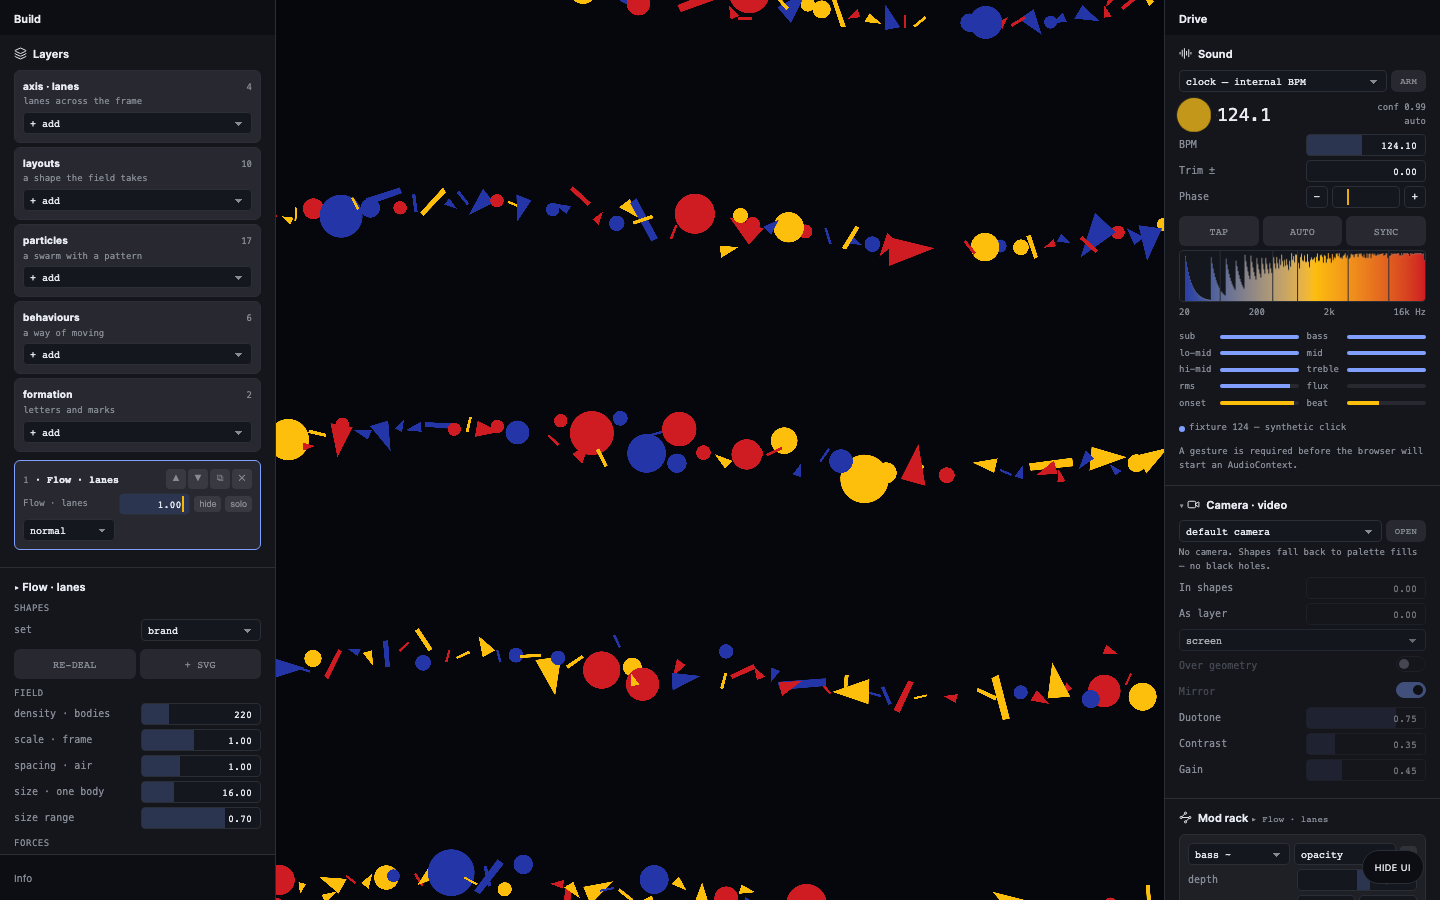
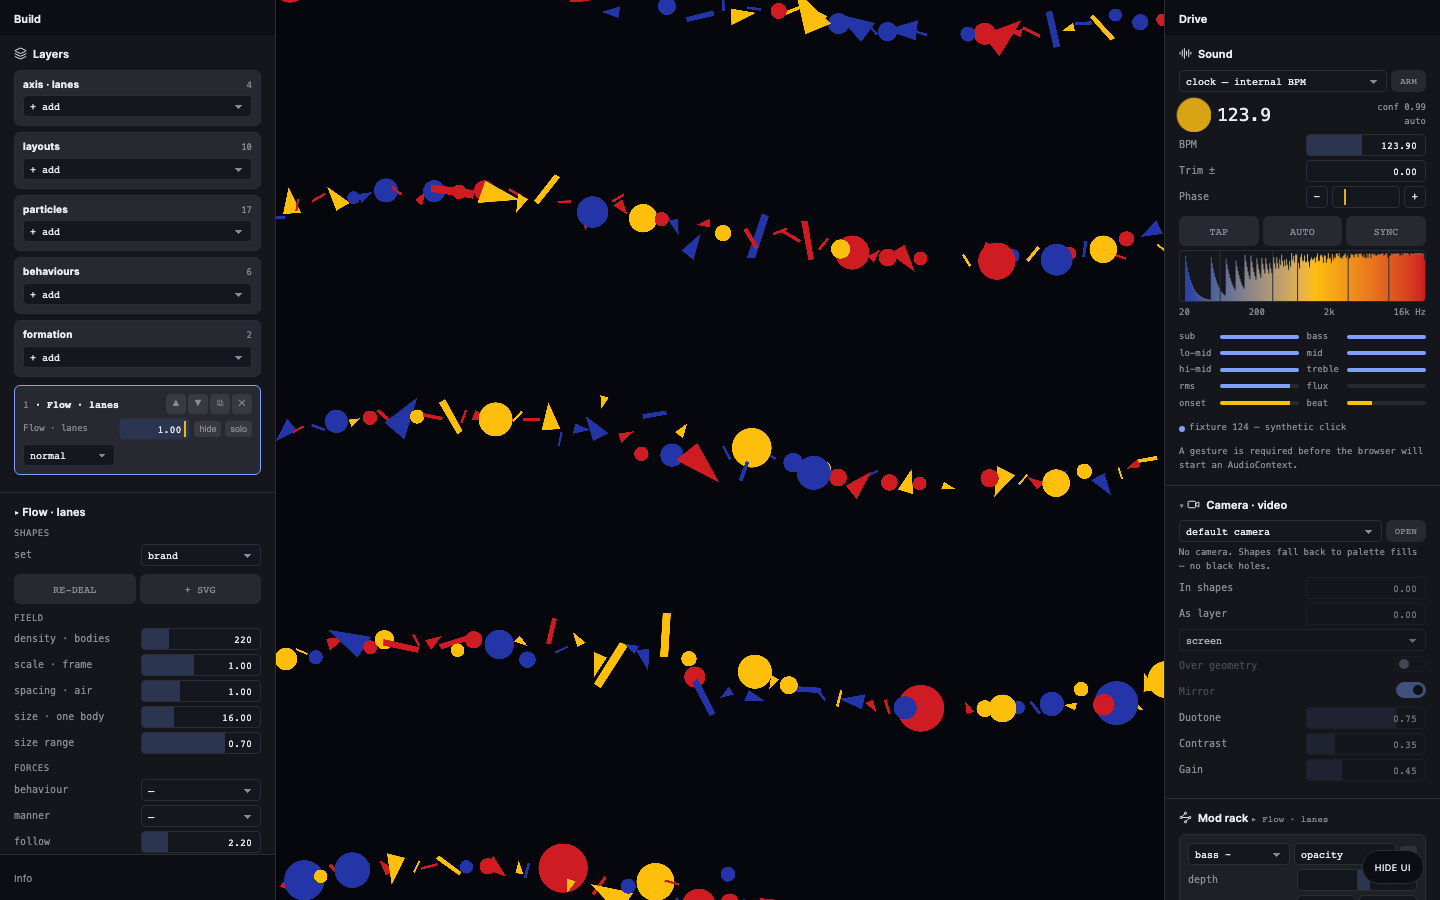
Слой рождается полем: 420 тел вместо 220

diff --git a/index.html b/index.html
@@ -2293,7 +2293,10 @@ function makeLayer(prog,variant){
   Object.assign(params, P.seed||{});
   /* a preset may also declare the crowd it was designed for */
   if(P.seed && P.seed.count) { /* handled by makeLayer's caller via L.count */ }
-  const seedCount=(P.seed&&P.seed.count)||220;
+  /* Rob, 2026-07-19: «если у нас есть диапазон до 6000 частиц, то количество лейеров на
+     каждый лейер можем давать предположим по 400, по 600». A layer arrives already a
+     field rather than a handful — 220 read as a sketch of one. */
+  const seedCount=(P.seed&&P.seed.count)||420;
   return { id:++uid, prog, shapes:DEF_SHAPES(), look:DEF_LOOK(),
     /* Rob, 2026-07-18: «сделай просто слои и прозрачность ему». The shared pool is gone.
        It was the reason a knob felt dead: with one pool every layer's target was averaged